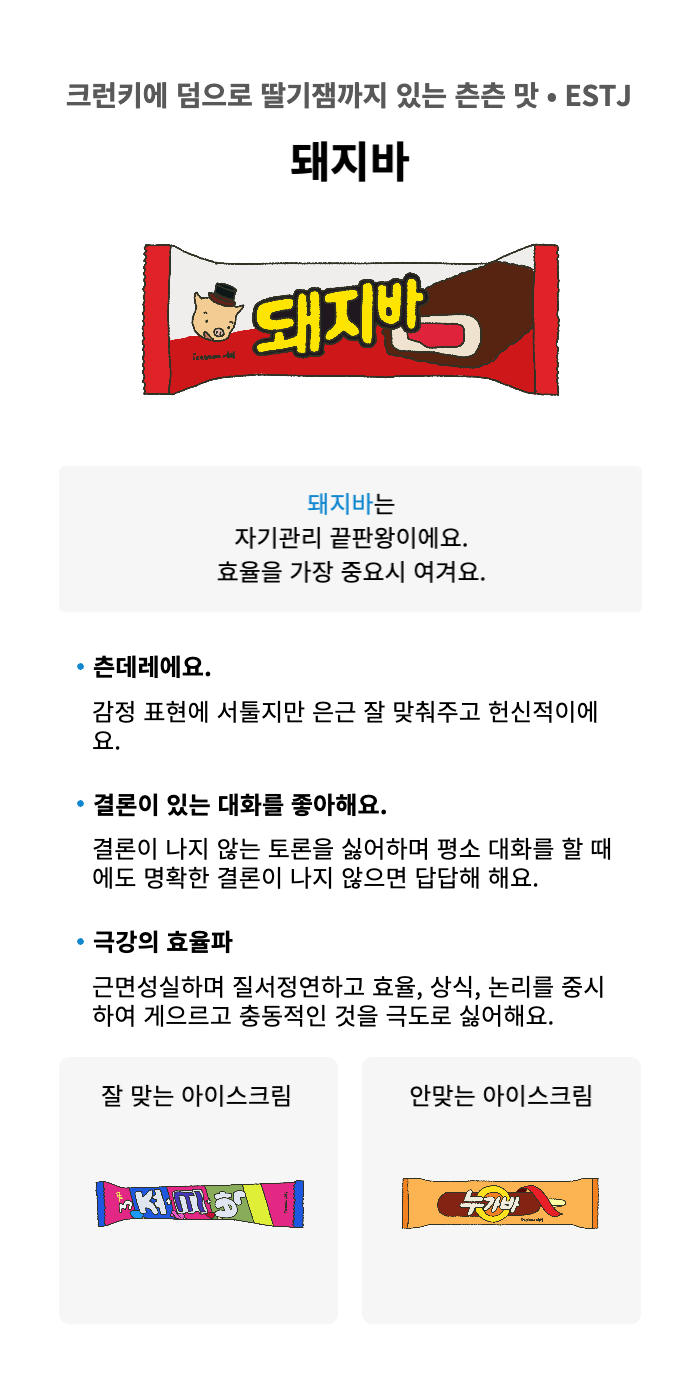
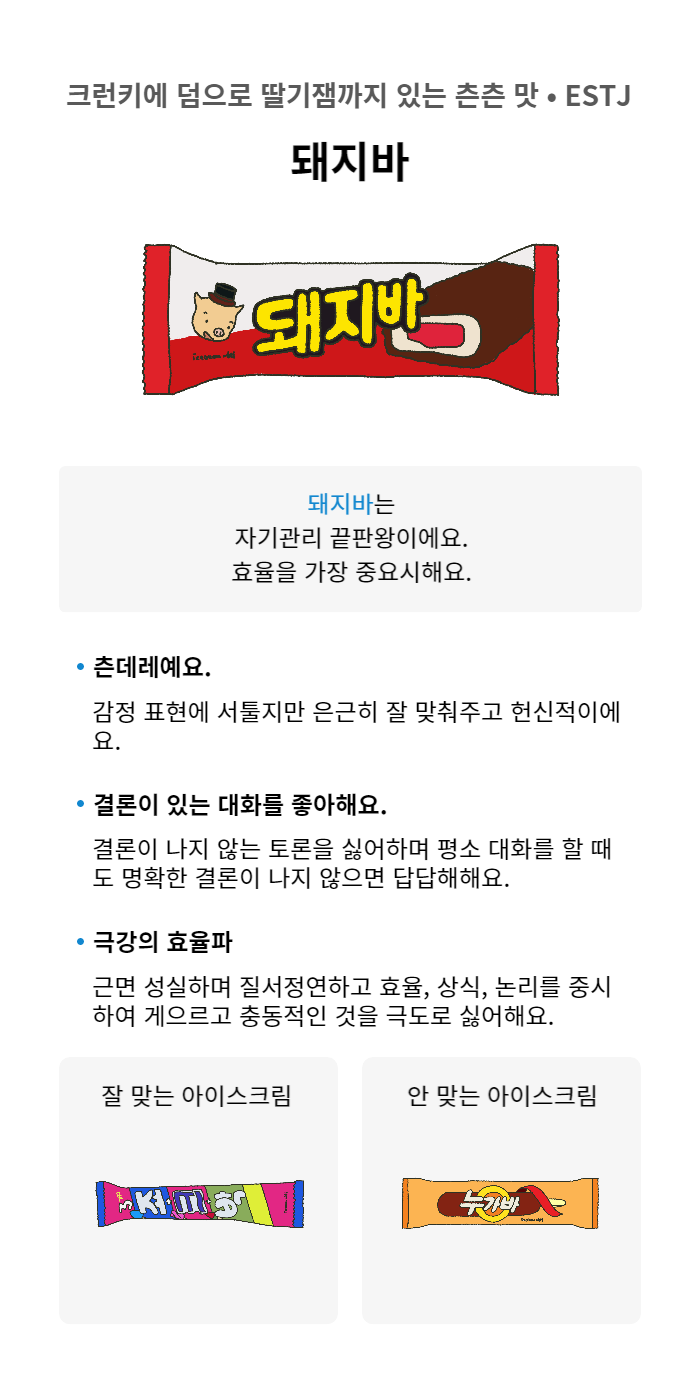
맞춤법 및 img수정

diff --git a/js/data.js b/js/data.js
@@ -1,15 +1,15 @@
 const qnaList = [
     {
-        q: '눈을 뜨니 아이스크림이 걸어다니는 이상한 마을이다. <br>이럴 때 나는?',
+        q: '눈을 뜨니 아이스크림이 걸어 다니는 이상한 마을이다. <br>이럴 때 나는?',
         a: [
             { answer: '주변 아이스크림에게 말을 건다.<br>"안녕하세요! 저 좀 도와주실 수 있나요? 이상한 사람 아니에요ㅜㅜ"', type: 'E'},
-            { answer: '혼자 주위를 살피며 파악한다.', type: 'I'},
+            { answer: '혼자 주위를 살피며 상황을 파악한다.', type: 'I'},
         ]
     },
     {
         q: '음식 옆에 "아무도 먹지 않았지만, 드셔도 됩니다”라고 적혀있다. <br>나라면?',
         a: [
-            { answer: '왜 아무도 안먹었지? 함정인가? 이거 먹고 쓰러지면 누가 데려가지? 먹기 전에 119에 전화하고 먹을까? ', type: 'N'},
+            { answer: '왜 아무도 안 먹었지? 함정인가? 이거 먹고 쓰러지면 누가 데려가지? 먹기 전에 119에 전화하고 먹을까? ', type: 'N'},
             { answer: '찝찝하지만 일단 너무 배가 고프니까 먹자.', type: 'S'},
         ]
     },
@@ -17,42 +17,42 @@ const qnaList = [
         q: '공원에서 놀고 있는 아이스크림 친구들이 같이 놀자고 한다. <br>나의 대답은?',
         a: [
             { answer: '어..?아냐아냐 괜찮아(그냥 가줬으면 좋겠다) 말이라도 고마워^_^', type: 'I'},
-            { answer: '헐 너무 좋아!! 안그래도 너무 재밌어 보여서 같이 놀고 싶었어ㅜㅜ 뭐하고 놀까?', type: 'E'},
+            { answer: '헐 너무 좋아!! 안 그래도 너무 재밌어 보여서 같이 놀고 싶었어ㅜㅜ 뭐 하고 놀까?', type: 'E'},
         ]
     },
     {
-        q: '친구가 아끼던 드라이아이스를 잃어버렸다고 한다. <br>이때 내가 할 말은?',
+        q: '친구가 아끼던 드라이아이스를 잃어버렸다고 한다. <br>이때 내가 해줄 말은?',
         a: [
-            { answer: '헐 너가 아끼는 물건인데 어떡해 속상하겠다ㅜㅜ 같이 찾아줄게!!', type: 'F'},
-            { answer: '그 물건 마지막으로 어디서 봤어? 생각나는 곳 있어?', type: 'T'},
+            { answer: '헐 너가 아끼는 물건인데 속상하겠다ㅜㅜ 같이 찾아줄게!!', type: 'F'},
+            { answer: '그 물건 어디서 마지막으로 봤어? 생각나는 곳 있어?', type: 'T'},
         ]
     },
     {
-        q: '거리에 두 다과집이 놓여있다. <br>이때 가고 싶은 장소는?',
+        q: '거리에 두 다과 집이 놓여있다. <br>이때 가고 싶은 장소는?',
         a: [
-            { answer: '사람이 많아보이고 재밌어보이는 핫플 다과집', type: 'E'},
-            { answer: '조용해보이고 한적한 다과집', type: 'I'},
+            { answer: '사람이 많아 보이고 재밌어 보이는 핫플 다과 집', type: 'E'},
+            { answer: '조용해 보이고 한적한 다과 집', type: 'I'},
         ]
     },
     {
-        q: '다과집에서 주문한 다과를 가져오는데 바닥이 좀 미끄럽다. <br>이때 내 생각은?',
+        q: '다과 집에서 주문한 다과를 가져오는데 바닥이 좀 미끄럽다. <br>이때 내 생각은?',
         a: [
-            { answer: '바닥이 좀 미끄럽네.. 넘어져서 시선 쏠리는거 아니야?', type: 'S'},
-            { answer: '넘어져서 다 흘렸는데 대걸레 가지러 간 사이에 누가 내가 흘린걸 밟고 또 넘어지면.. 내가 치료비를 줘야하는 건가..?', type: 'N'},
+            { answer: '바닥이 좀 미끄럽네.. 넘어져서 시선 쏠리는 거 아니야?', type: 'S'},
+            { answer: '넘어져서 다 흘렸는데 대걸레 가지러 간 사이에 누가 내가 흘린 걸 밟고 또 넘어지면.. 내가 치료비를 줘야 하는 건가..?', type: 'N'},
         ]
     },
     {
         q: '친구가 "걷다가 달을 봤는데 너 생각이 났어"라며 연락했다. <br>나의 대답은?',
         a: [
             { answer: '왜? 달을 보는데 왜 내 생각이 나? (달이 나랑 무슨 관계가 있지?)', type: 'T'},
-            { answer: '헐 내 생각이 났어? 감동이다ㅜㅜ 보러갈까? (내 생각이 났다니 감동이다)', type: 'F'},
+            { answer: '헐 내 생각이 났어? 감동이다ㅜㅜ (내 생각이 났다니 감동이다)', type: 'F'},
         ]
     },
     {
         q: '집들이 후 방을 보니 엄청나게 어질러져 있다. <br>이때 나는?',
         a: [
             { answer: '힘들지만 치우고 푹 쉬는게 좋겠지', type: 'J'},
-            { answer: '힘들다... 좀만 쉬고 치우고싶다. 치우기 귀찮다..', type: 'P'},
+            { answer: '힘들다... 좀만 쉬고 치우고 싶다. 치우기 귀찮다..', type: 'P'},
         ]
     },
     {
@@ -63,17 +63,17 @@ const qnaList = [
         ]
     },
     {
-        q: '오늘은 아이스크림 마을 전체를 구경해보려고 한다. <br>이때 나는?',
+        q: '오늘은 아이스크림 마을을 본격적으로 구경해보려고 한다. <br>이때 나는?',
         a: [
-            { answer: '발 닿는대로 일단 가보자!', type: 'P'},
+            { answer: '발 닿는 대로 일단 가보자!', type: 'P'},
             { answer: '마을 지도를 꼼꼼히 보고 동선을 정한다.', type: 'J'},
         ]
     },
     {
-        q: '마을에 사람이 나타났다는 소식을 들은 병사들이 날 발견하고 쫒아온다. <br>도망가는 내 머릿속은?',
+        q: '마을에 사람이 나타났다는 소식을 들은 병사들이 날 발견하고 쫓아온다. <br>도망가는 내 머릿속은?',
         a: [
-            { answer: '잡히면 안될 것 같으니 일단 달라자. 잡히면 x된다.', type: 'S'},
-            { answer: '나 왜 도망가야되는거지? 난 아무것도 안했는데 날 왜 쫒아오지? 근데 잡히면 어떻게 되는거지. 나 죽나? 내가 여기서 죽으면 장례는 누가 치뤄주지? ', type: 'N'},
+            { answer: '잡히면 안 될 것 같으니 일단 달리자. 잡히면 x된다.', type: 'S'},
+            { answer: '나 왜 도망가야 하는 거지? 난 아무것도 안 했는데 날 왜 쫓아오지? 근데 잡히면 어떻게 되는 거지. 나 죽나? 내가 여기서 죽으면 장례는 누가 치러주지? ', type: 'N'},
         ]
     },
     {
